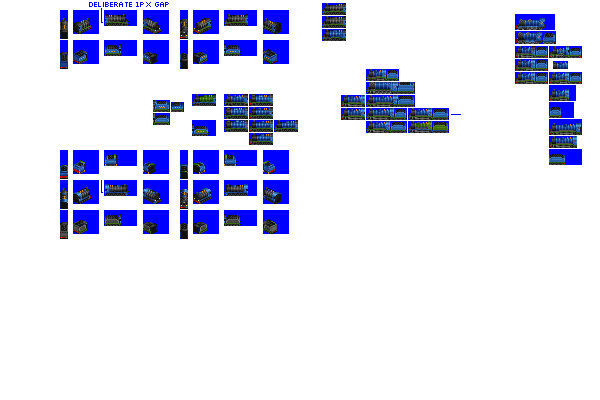
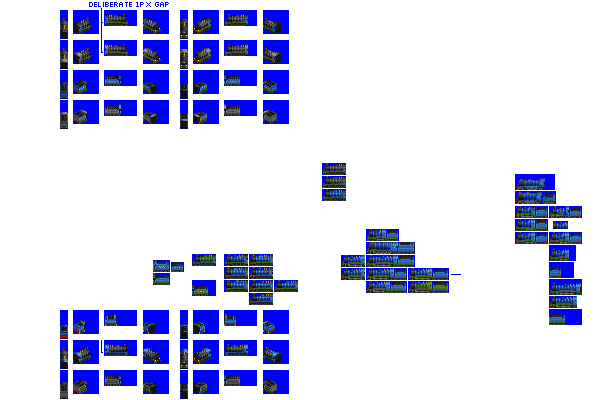
Change: additional livery for Vigilant

diff --git a/src/vehicles/vigilant.py b/src/vehicles/vigilant.py
@@ -15,8 +15,8 @@ def main(roster_id):
         tractive_effort_coefficient=0.32,
         fixed_run_cost_points=245,  # cost malus, early heavy freight engines are too cheap to run relative to smaller engines
         gen=2,
-        additional_liveries=[],
-        sprites_complete=False,
+        additional_liveries=["FREIGHT_BLACK"],
+        sprites_complete=True,
     )
 
     consist.add_unit(type=SteamEngineUnit, weight=92, vehicle_length=6, spriterow_num=0)
